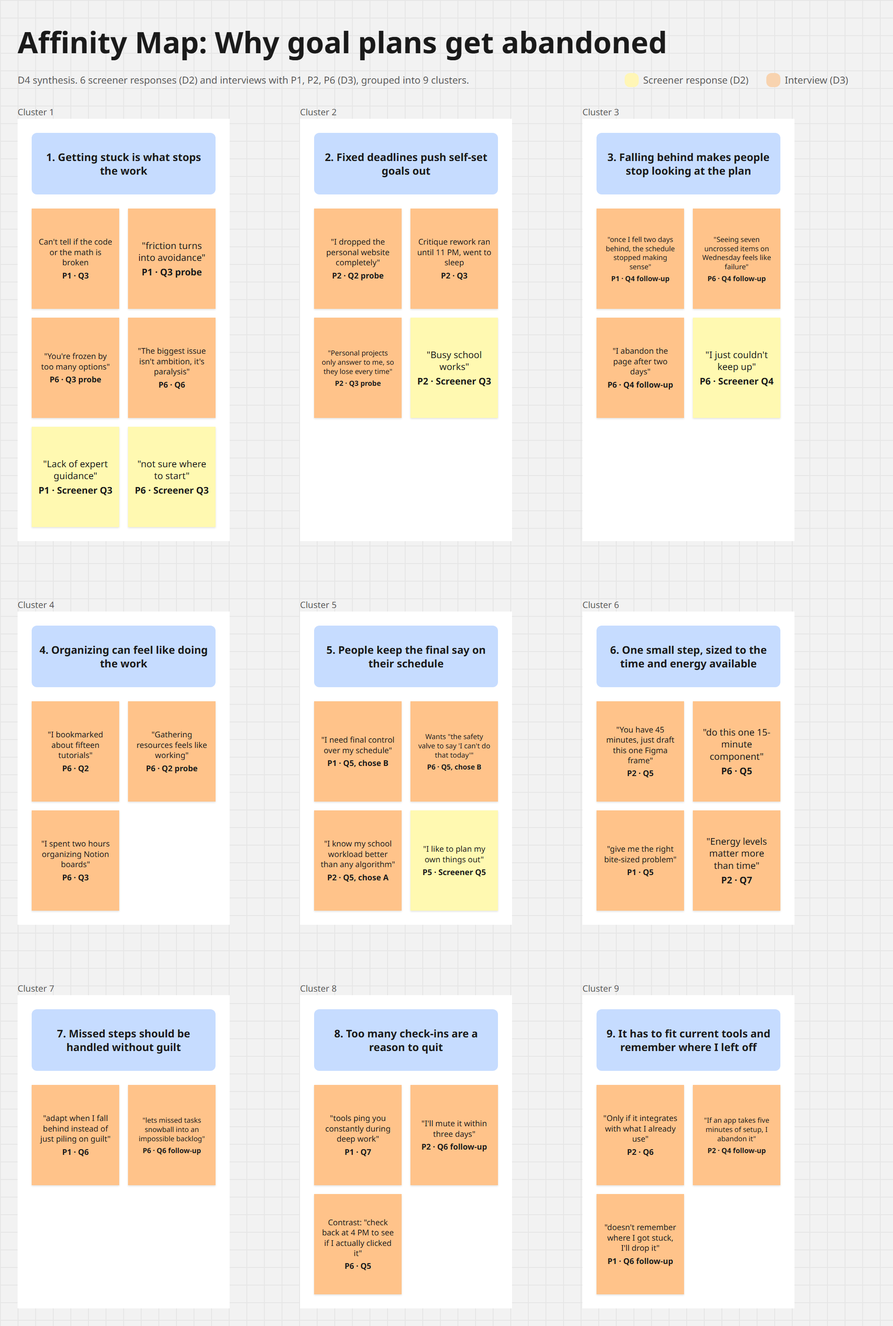
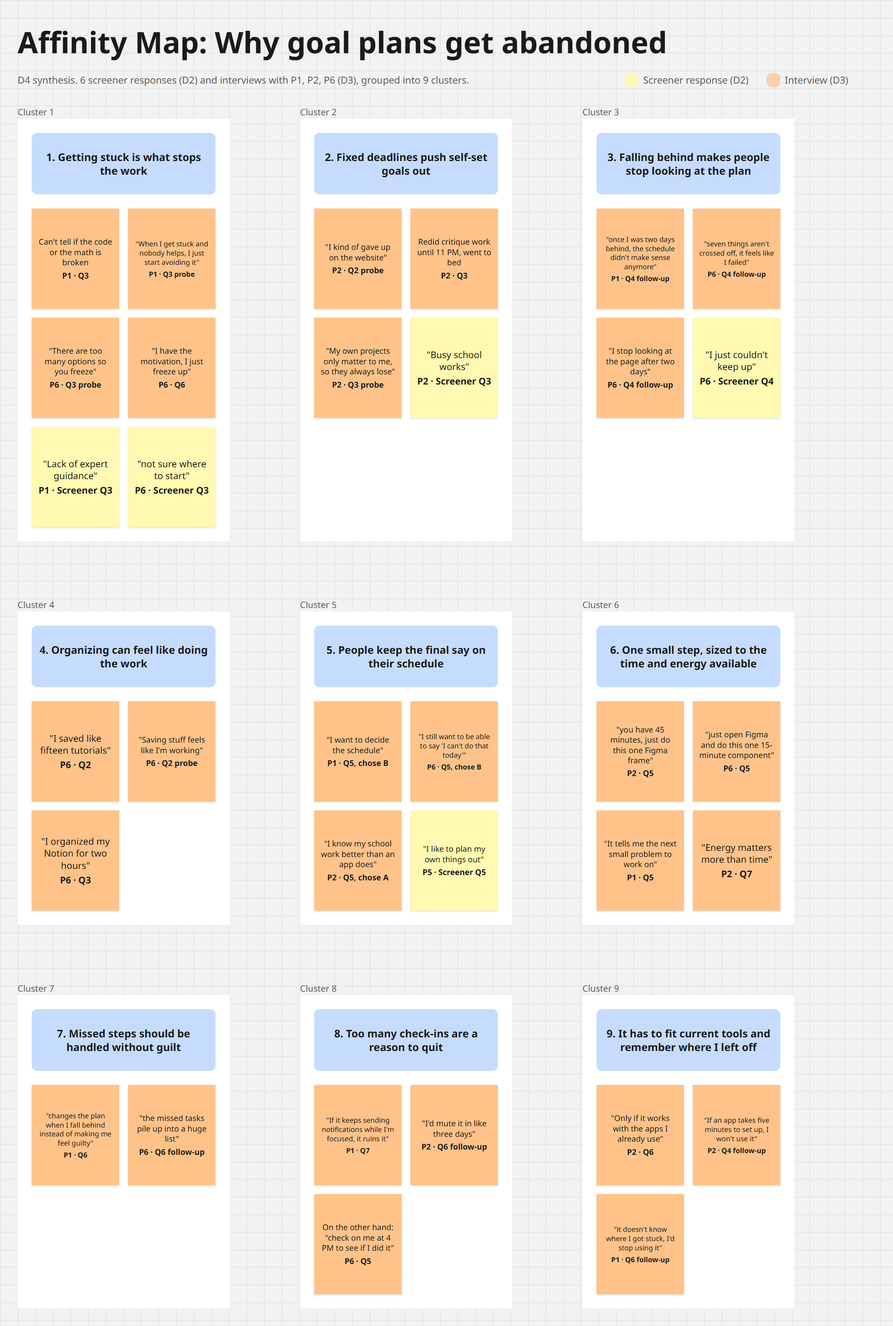
Plain wording for interview notes, highlights, P2 finding
Rewrites the D3 interview notes in plainer student wording with the
same content, labels them as notes rather than word-for-word quotes,
highlights the parts used in D4, matches D4 quotes and both maps to the
new wording, and adds a D4 note on P2 picking A while describing B.

diff --git a/index.html b/index.html
@@ -94,6 +94,7 @@
 
   .qa{ margin:18px 0; }
   .qa .q{ font-family:'IBM Plex Mono',monospace; font-size:12.5px; color:var(--ink-faint); margin-bottom:5px; max-width:72ch; }
+  .qa mark{ background:var(--accent-tint); color:inherit; padding:0 2px; }
   .qa .a{ font-family:'Newsreader',serif; font-size:16px; color:var(--ink); margin:0 0 4px; max-width:68ch; }
 
   /* ---- persona blocks (flat, no card chrome) ---- */
@@ -359,7 +360,7 @@
             </tbody>
           </table>
         </div>
-        <p class="measure">P1 and P2 said yes to a follow-up in the screener. P6 said no at first, but I needed one more interview, so I asked P6 again in October and they agreed. All three were okay with me taking notes. The answers below are my notes from the interviews, lightly cleaned up.</p>
+        <p class="measure">P1 and P2 said yes to a follow-up in the screener. P6 said no at first, but I needed one more interview, so I asked P6 again in October and they agreed. All three were okay with me taking notes. The answers below are from my notes. I wrote them down close to what each person said, but they aren't word for word.</p>
 
         <h3 id="guide">Interview guide</h3>
         <p class="measure">Text in [brackets] comes from that person's screener answers. I asked follow-ups one at a time, after they answered the main question. I only asked probes if the answer didn't already cover them. Before Q5, I described the tool the same way the screener did: "a tool that breaks a big goal into small steps and checks in with you."</p>
@@ -375,60 +376,60 @@
         <p class="measure">Q5 and Q6 ask about a tool that doesn't exist yet. So I count those answers as weaker evidence than Q2 to Q4, which are about what people actually did.</p>
 
         <h3 id="interviews">Full interviews</h3>
-        <p class="measure">Each question is written the way I asked it, with the brackets filled in from that person's screener. I only listed the probes and follow-ups I actually asked. My own notes are separate, at the end of each interview.</p>
+        <p class="measure">Each question is written the way I asked it, with the brackets filled in from that person's screener. I only listed the probes and follow-ups I actually asked. My own notes are separate, at the end of each interview. Highlighted parts are the ones I used in the synthesis (D4).</p>
 
         <h3 id="p1">P1</h3>
         <p class="resp-cap">Oct 17, 2026 · in person · 30 min · consented to notes</p>
-        <div class="qa"><p class="q">Q1 · In the screener, you described a goal: learning a skill. Can you tell me about it?</p><p class="a">"I’ve been trying to learn shader programming for WebGL. It’s a mix of math and front-end design that I’ve wanted to grasp for portfolio work."</p></div>
-        <div class="qa"><p class="q">Q1 probe · Why did you choose that goal?</p><p class="a">"It’s hard to stand out just doing standard UI. Real-time graphics feel like the next frontier for interactive web experiences."</p></div>
-        <div class="qa"><p class="q">Q2 · What, if anything, have you done toward that goal since you filled out the screener?</p><p class="a">"I worked through two tutorials on fragment shaders and took some notes in Obsidian."</p></div>
-        <div class="qa"><p class="q">Q2 probe · How, if at all, has that changed over time?</p><p class="a">"I started strong with basic shapes, but as soon as the vector math got into 3D lighting models, my pace dropped off sharply."</p></div>
-        <div class="qa"><p class="q">Q3 · You said a lack of expert guidance to follow, and willpower, made it hard to follow through. Can you tell me about a time that happened?</p><p class="a">"Last Tuesday I hit a math bug where the canvas stayed blank. When you're self-taught, you don't know if your code syntax is wrong or your linear algebra logic is broken. Staring at it for two hours just completely drained my motivation to open it the next day."</p></div>
-        <div class="qa"><p class="q">Q3 probe · Why do you think that happens?</p><p class="a">"When the feedback loop breaks and there's no mentor to say ‘you’re almost there, check line 12,’ friction turns into avoidance."</p></div>
-        <div class="qa"><p class="q">Q4 · You mentioned using ChatGPT to plan in detail how to execute on a day-to-day basis. How did you use it?</p><p class="a">"I asked it to break down a 4-week curriculum from beginner GLSL to lighting models, giving me one prompt or exercise per day."</p></div>
-        <div class="qa"><p class="q">Q4 follow-up · Are you still using it?</p><p class="a">"On and off. Mostly just when I need to ask conceptual questions."</p></div>
-        <div class="qa"><p class="q">Q4 follow-up · Why or why not?</p><p class="a">"The daily plan it made was too rigid. Real life happens, and once I fell two days behind, the schedule stopped making sense."</p></div>
-        <div class="qa"><p class="q">Q5 · How, if at all, would you want a tool like this to work for you?</p><p class="a">"I’d want it to behave like a tech lead, someone who can scope the milestone, give me the right bite-sized problem, and debug my conceptual block without taking over the driving."</p></div>
-        <div class="qa"><p class="q">Q5 follow-up · Which of A, B, C, or D, if any, is closest to what you would want? Why?</p><p class="a">"B. I want its domain knowledge to lay out the path, but I need final control over my schedule based on my actual mental energy that day."</p></div>
-        <div class="qa"><p class="q">Q6 · Do you think you would use a tool like this? Why or why not?</p><p class="a">"Yes, if the suggestions are actually technically sound and adapt when I fall behind instead of just piling on guilt."</p></div>
-        <div class="qa"><p class="q">Q6 follow-up · Do you think you would continue to use it? Why or why not?</p><p class="a">"Only if it provides continuous context. If it treats every day like day one and doesn't remember where I got stuck, I’ll drop it."</p></div>
-        <div class="qa"><p class="q">Q7 · Is there anything about working toward this goal that I didn't ask about and you think matters?</p><p class="a">"Pacing matters more than reminders. When tools ping you constantly during deep work, it actually ruins your flow."</p></div>
+        <div class="qa"><p class="q">Q1 · In the screener, you described a goal: learning a skill. Can you tell me about it?</p><p class="a">"I've been trying to learn shader programming for WebGL. It's kind of a mix of math and front-end stuff, and I wanted to get it for my portfolio."</p></div>
+        <div class="qa"><p class="q">Q1 probe · Why did you choose that goal?</p><p class="a">"Honestly it's hard to stand out if you only do normal UI. Real-time graphics on websites seemed like the next big thing, so I wanted to learn it."</p></div>
+        <div class="qa"><p class="q">Q2 · What, if anything, have you done toward that goal since you filled out the screener?</p><p class="a">"I did two tutorials on fragment shaders and took some notes in Obsidian."</p></div>
+        <div class="qa"><p class="q">Q2 probe · How, if at all, has that changed over time?</p><p class="a">"The beginning was fine, I made basic shapes. But <mark>once the vector math got into 3D lighting, I got really slow</mark>."</p></div>
+        <div class="qa"><p class="q">Q3 · You said a lack of expert guidance to follow, and willpower, made it hard to follow through. Can you tell me about a time that happened?</p><p class="a">"Last Tuesday I had a bug and the canvas just stayed blank. When you're teaching yourself, <mark>you can't tell if it's the code or if your math is wrong</mark>. I stared at it for like two hours, and the next day I didn't even want to open it."</p></div>
+        <div class="qa"><p class="q">Q3 probe · Why do you think that happens?</p><p class="a">"Because there's nobody to tell you 'you're close, check line 12.' <mark>When I get stuck and nobody helps, I just start avoiding it.</mark>"</p></div>
+        <div class="qa"><p class="q">Q4 · You mentioned using ChatGPT to plan in detail how to execute on a day-to-day basis. How did you use it?</p><p class="a">"I asked it to make a 4-week plan from beginner GLSL to lighting, with one exercise every day."</p></div>
+        <div class="qa"><p class="q">Q4 follow-up · Are you still using it?</p><p class="a">"Kind of. Now I mostly use it when I have a concept question."</p></div>
+        <div class="qa"><p class="q">Q4 follow-up · Why or why not?</p><p class="a">"The plan was too strict. Stuff comes up, and <mark>once I was two days behind, the schedule didn't make sense anymore</mark>."</p></div>
+        <div class="qa"><p class="q">Q5 · How, if at all, would you want a tool like this to work for you?</p><p class="a">"I'd want it to be like a senior who knows the stuff. <mark>It tells me the next small problem to work on and helps when I'm stuck</mark>, but I'm still the one doing it."</p></div>
+        <div class="qa"><p class="q">Q5 follow-up · Which of A, B, C, or D, if any, is closest to what you would want? Why?</p><p class="a">"B. I want it to plan the path since it knows more than me, but <mark>I want to decide the schedule, because some days I just don't have the energy</mark>."</p></div>
+        <div class="qa"><p class="q">Q6 · Do you think you would use a tool like this? Why or why not?</p><p class="a">"Yeah, if the suggestions actually make sense, and if it <mark>changes the plan when I fall behind instead of making me feel guilty</mark>."</p></div>
+        <div class="qa"><p class="q">Q6 follow-up · Do you think you would continue to use it? Why or why not?</p><p class="a">"Only if it remembers where I was. <mark>If every day feels like starting over and it doesn't know where I got stuck, I'd stop using it.</mark>"</p></div>
+        <div class="qa"><p class="q">Q7 · Is there anything about working toward this goal that I didn't ask about and you think matters?</p><p class="a">"How fast you go matters more than reminders. <mark>If it keeps sending notifications while I'm focused, it ruins it.</mark>"</p></div>
         <p class="measure"><strong>My notes after the interview (my take, not P1's words).</strong> What surprised me: P1 had plenty of drive. Their motivation dropped once they got stuck on the math and had no one to ask. Compared with the screener: This matches what P1 wrote. ChatGPT was good for planning out a syllabus, but it couldn't help when something broke. Follow-up I should have asked: "When ChatGPT generated your daily schedule, what did you do on the very first day you missed a task?"</p>
 
         <h3 id="p2">P2</h3>
         <p class="resp-cap">Oct 16, 2026 · in person · 30 min · consented to notes</p>
-        <div class="qa"><p class="q">Q1 · In the screener, you described a goal: working on various projects. Can you tell me about it?</p><p class="a">"I have a few studio class deliverables, a team case competition slide deck, and a personal branding site I want to clean up."</p></div>
-        <div class="qa"><p class="q">Q1 probe · Why did you choose that goal?</p><p class="a">"It’s mid-semester crunch time, and if I don’t juggle these right now, my grades slip and portfolio deadlines pass."</p></div>
-        <div class="qa"><p class="q">Q2 · What, if anything, have you done toward that goal since you filled out the screener?</p><p class="a">"Finished the wireframes for studio and drafted three slides for the competition."</p></div>
-        <div class="qa"><p class="q">Q2 probe · How, if at all, has that changed over time?</p><p class="a">"I dropped the personal website completely. Studio and team stuff have fixed deadlines, so solo work got shoved aside."</p></div>
-        <div class="qa"><p class="q">Q3 · You said being busy with schoolwork made it hard to follow through. Can you tell me about a time that happened?</p><p class="a">"Last Thursday I planned to spend two hours on my site. But our team had an emergency critique rework that went until 11 PM. I was burnt out and just went straight to sleep."</p></div>
-        <div class="qa"><p class="q">Q3 probe · Why do you think that happens?</p><p class="a">"Academic deadlines have real consequences with professors. Personal projects only answer to me, so they lose every time."</p></div>
-        <div class="qa"><p class="q">Q4 · You mentioned you had used an app, planner, or AI tool, and it worked efficiently. Which tool was it, and how did you use it?</p><p class="a">"I used Todoist paired with Google Calendar. Just rapid dumping of tasks into 30-minute calendar blocks."</p></div>
-        <div class="qa"><p class="q">Q4 follow-up · Are you still using it?</p><p class="a">"Yes, daily."</p></div>
-        <div class="qa"><p class="q">Q4 follow-up · Why or why not?</p><p class="a">"It works because it takes two seconds to add a task. If an app takes five minutes of setup, I abandon it."</p></div>
-        <div class="qa"><p class="q">Q5 · How, if at all, would you want a tool like this to work for you?</p><p class="a">"Look at my calendar, see the blank pockets between lectures, and suggest: ‘You have 45 minutes, just draft this one Figma frame.’"</p></div>
-        <div class="qa"><p class="q">Q5 follow-up · Which of A, B, C, or D, if any, is closest to what you would want? Why?</p><p class="a">"A. I know my school workload better than any algorithm. I don't want an AI telling me how to organize my day; I just need it to remind me of the small step when I have a spare hour."</p></div>
-        <div class="qa"><p class="q">Q6 · Do you think you would use a tool like this? Why or why not?</p><p class="a">"Only if it integrates with what I already use. If it’s a brand-new app I have to open and manage, honestly no."</p></div>
-        <div class="qa"><p class="q">Q6 follow-up · Do you think you would continue to use it? Why or why not?</p><p class="a">"If it reduces cognitive load, yes. If it sends push notifications when I’m already stressed in class, I’ll mute it within three days."</p></div>
-        <div class="qa"><p class="q">Q7 · Is there anything about working toward this goal that I didn't ask about and you think matters?</p><p class="a">"Energy levels matter more than time. A free 30-minute window at 9 PM isn't the same as 30 minutes at 11 AM."</p></div>
+        <div class="qa"><p class="q">Q1 · In the screener, you described a goal: working on various projects. Can you tell me about it?</p><p class="a">"I have a couple studio projects, a slide deck for a team case competition, and my personal website that I want to clean up."</p></div>
+        <div class="qa"><p class="q">Q1 probe · Why did you choose that goal?</p><p class="a">"It's the middle of the semester, so if I don't keep up with all of them, my grades drop and I miss portfolio deadlines."</p></div>
+        <div class="qa"><p class="q">Q2 · What, if anything, have you done toward that goal since you filled out the screener?</p><p class="a">"I finished my studio wireframes and made three slides for the competition."</p></div>
+        <div class="qa"><p class="q">Q2 probe · How, if at all, has that changed over time?</p><p class="a">"<mark>I kind of gave up on the website.</mark> Studio and the team project have real deadlines, so my own stuff got pushed back."</p></div>
+        <div class="qa"><p class="q">Q3 · You said being busy with schoolwork made it hard to follow through. Can you tell me about a time that happened?</p><p class="a">"Last Thursday I planned two hours for my site. But my team had to redo stuff for a critique and <mark>we worked until 11 PM. I was so tired I just went to bed.</mark>"</p></div>
+        <div class="qa"><p class="q">Q3 probe · Why do you think that happens?</p><p class="a">"School deadlines actually matter because professors grade you. <mark>My own projects only matter to me, so they always lose.</mark>"</p></div>
+        <div class="qa"><p class="q">Q4 · You mentioned you had used an app, planner, or AI tool, and it worked efficiently. Which tool was it, and how did you use it?</p><p class="a">"Todoist with Google Calendar. I just throw tasks into 30-minute blocks really fast."</p></div>
+        <div class="qa"><p class="q">Q4 follow-up · Are you still using it?</p><p class="a">"<mark>Yeah, every day.</mark>"</p></div>
+        <div class="qa"><p class="q">Q4 follow-up · Why or why not?</p><p class="a">"Because adding a task takes like two seconds. <mark>If an app takes five minutes to set up, I won't use it.</mark>"</p></div>
+        <div class="qa"><p class="q">Q5 · How, if at all, would you want a tool like this to work for you?</p><p class="a">"It could <mark>look at my calendar, find the free time between classes</mark>, and say something like 'you have 45 minutes, just do this one Figma frame.'"</p></div>
+        <div class="qa"><p class="q">Q5 follow-up · Which of A, B, C, or D, if any, is closest to what you would want? Why?</p><p class="a">"A. I know my school work better than an app does. <mark>I don't want AI planning my day.</mark> I just want a reminder of the small thing when I have a free hour."</p></div>
+        <div class="qa"><p class="q">Q6 · Do you think you would use a tool like this? Why or why not?</p><p class="a">"<mark>Only if it works with the apps I already use.</mark> If it's a new app I have to open and keep up with, probably not."</p></div>
+        <div class="qa"><p class="q">Q6 follow-up · Do you think you would continue to use it? Why or why not?</p><p class="a">"If it makes things easier to think about, yes. But if it sends notifications when I'm already stressed in class, <mark>I'd mute it in like three days</mark>."</p></div>
+        <div class="qa"><p class="q">Q7 · Is there anything about working toward this goal that I didn't ask about and you think matters?</p><p class="a">"<mark>Energy matters more than time.</mark> 30 free minutes at 9 PM is not the same as 30 minutes at 11 AM."</p></div>
         <p class="measure"><strong>My notes after the interview (my take, not P2's words).</strong> What surprised me: P2 really wants to stay in control. They don't want complicated features or an AI planning their day. Compared with the screener: This matches "busy school works," since school deadlines push out personal projects. The tool they called "efficient" turned out to be simple time blocking. Follow-up I should have asked: "What is the trigger that actually makes you check off a task on a busy day?"</p>
 
         <h3 id="p6">P6</h3>
         <p class="resp-cap">Oct 16, 2026 · in person · 30 min · consented to notes</p>
-        <div class="qa"><p class="q">Q1 · In the screener, you described a few goals: learning new UX tools for your design process, time management, job searching, and using AI tools to keep up with the trend. Can you tell me about them?</p><p class="a">"I’m trying to transition into product design, so I feel like I have to learn Figma advanced variables, test new generative UI tools, update my resume, and network on LinkedIn all at once."</p></div>
-        <div class="qa"><p class="q">Q1 probe · Why did you choose those goals?</p><p class="a">"The job market is brutal right now. Every job listing wants someone who does everything, and I feel like I’m falling behind."</p></div>
-        <div class="qa"><p class="q">Q2 · What, if anything, have you done toward those goals since you filled out the screener?</p><p class="a">"I bookmarked about fifteen tutorials and made a massive Notion board of jobs to apply for."</p></div>
-        <div class="qa"><p class="q">Q2 probe · How, if at all, has that changed over time?</p><p class="a">"I haven't actually applied or finished a tutorial. Gathering resources feels like working, but then looking at the list makes me freeze up."</p></div>
-        <div class="qa"><p class="q">Q3 · You said nobody keeping you accountable, motivation, keeping track, and not being sure where to start made it hard to follow through. Can you tell me about a time that happened?</p><p class="a">"Last Sunday, I sat down at 10 AM to work on a case study. I spent two hours organizing Notion boards, then an hour debating whether to learn Framer or Figma first, got overwhelmed, and ended up just scrolling social media."</p></div>
-        <div class="qa"><p class="q">Q3 probe · Why do you think that happens?</p><p class="a">"When you have four huge goals with no manager or teacher checking your work, you don't know what priority one is. You're frozen by too many options."</p></div>
-        <div class="qa"><p class="q">Q4 · You mentioned using the Apple Notes app and a physical planner, but you couldn't keep up. How did you use them?</p><p class="a">"I’d write down ambitious 10-item to-do lists in my notebook every Monday, or dump links into Notes."</p></div>
-        <div class="qa"><p class="q">Q4 follow-up · Are you still using them?</p><p class="a">"Not consistently. I abandon the page after two days."</p></div>
-        <div class="qa"><p class="q">Q4 follow-up · Why or why not?</p><p class="a">"Seeing seven uncrossed items on Wednesday feels like failure, so I just avoid looking at the planner completely."</p></div>
-        <div class="qa"><p class="q">Q5 · How, if at all, would you want a tool like this to work for you?</p><p class="a">"I want it to tell me: ‘Don’t worry about the other ten things today. Just open Figma and do this one 15-minute component.’ And then check back at 4 PM to see if I actually clicked it."</p></div>
-        <div class="qa"><p class="q">Q5 follow-up · Which of A, B, C, or D, if any, is closest to what you would want? Why?</p><p class="a">"B. I need someone or something else to make the first move and trim down the scope, but I still want the safety valve to say ‘I can't do that today.’"</p></div>
-        <div class="qa"><p class="q">Q6 · Do you think you would use a tool like this? Why or why not?</p><p class="a">"Yes, desperately. The biggest issue isn't ambition, it's paralysis."</p></div>
-        <div class="qa"><p class="q">Q6 follow-up · Do you think you would continue to use it? Why or why not?</p><p class="a">"Only if it handles failure gently. If it guilts me or lets missed tasks snowball into an impossible backlog, I’ll shut down like I did with my planner."</p></div>
-        <div class="qa"><p class="q">Q7 · Is there anything about working toward these goals that I didn't ask about and you think matters?</p><p class="a">"The emotional side of starting. When you're job hunting, every task feels heavy. Lowering that activation energy is everything."</p></div>
+        <div class="qa"><p class="q">Q1 · In the screener, you described a few goals: learning new UX tools for your design process, time management, job searching, and using AI tools to keep up with the trend. Can you tell me about them?</p><p class="a">"I'm trying to get into product design, so I feel like I need to learn Figma variables, try the new AI UI tools, fix my resume, and network on LinkedIn, <mark>all at the same time</mark>."</p></div>
+        <div class="qa"><p class="q">Q1 probe · Why did you choose those goals?</p><p class="a">"The job market is really bad right now. Every job post wants someone who can do everything, and I feel behind."</p></div>
+        <div class="qa"><p class="q">Q2 · What, if anything, have you done toward those goals since you filled out the screener?</p><p class="a">"I saved like fifteen tutorials and made a huge Notion board of jobs to apply to."</p></div>
+        <div class="qa"><p class="q">Q2 probe · How, if at all, has that changed over time?</p><p class="a">"I haven't actually applied anywhere or finished a tutorial. <mark>Saving stuff feels like I'm working</mark>, but then I look at the list and I just freeze."</p></div>
+        <div class="qa"><p class="q">Q3 · You said nobody keeping you accountable, motivation, keeping track, and not being sure where to start made it hard to follow through. Can you tell me about a time that happened?</p><p class="a">"Last Sunday I sat down at 10 AM to work on a case study. <mark>I organized my Notion for two hours</mark>, then spent an hour deciding if I should learn Framer or Figma first. I got overwhelmed and ended up on social media."</p></div>
+        <div class="qa"><p class="q">Q3 probe · Why do you think that happens?</p><p class="a">"When you have four big goals and no boss or teacher checking, <mark>you don't know what to do first</mark>. There are too many options so you freeze."</p></div>
+        <div class="qa"><p class="q">Q4 · You mentioned using the Apple Notes app and a physical planner, but you couldn't keep up. How did you use them?</p><p class="a">"Every Monday I'd write a big 10-item to-do list in my notebook, or just dump links into Notes."</p></div>
+        <div class="qa"><p class="q">Q4 follow-up · Are you still using them?</p><p class="a">"Not really. <mark>I stop looking at the page after two days.</mark>"</p></div>
+        <div class="qa"><p class="q">Q4 follow-up · Why or why not?</p><p class="a">"When it's Wednesday and seven things aren't crossed off, <mark>it feels like I failed, so I just stop looking at the planner</mark>."</p></div>
+        <div class="qa"><p class="q">Q5 · How, if at all, would you want a tool like this to work for you?</p><p class="a">"I want it to tell me, 'Don't worry about the other ten things today, <mark>just open Figma and do this one 15-minute component</mark>.' And then check on me at 4 PM to see if I did it."</p></div>
+        <div class="qa"><p class="q">Q5 follow-up · Which of A, B, C, or D, if any, is closest to what you would want? Why?</p><p class="a">"B. I need something to make the first move and cut it down for me, but <mark>I still want to be able to say 'I can't do that today.'</mark>"</p></div>
+        <div class="qa"><p class="q">Q6 · Do you think you would use a tool like this? Why or why not?</p><p class="a">"Yes, definitely. <mark>I have the motivation, I just freeze up.</mark>"</p></div>
+        <div class="qa"><p class="q">Q6 follow-up · Do you think you would continue to use it? Why or why not?</p><p class="a">"Only if it's chill when I miss things. <mark>If it makes me feel guilty or the missed tasks pile up into a huge list, I'll quit it</mark> like I did with my planner."</p></div>
+        <div class="qa"><p class="q">Q7 · Is there anything about working toward these goals that I didn't ask about and you think matters?</p><p class="a">"Starting is the hard part, emotionally. When you're job hunting every task feels heavy, so making it easier to start is huge."</p></div>
         <p class="measure"><strong>My notes after the interview (my take, not P6's words).</strong> What surprised me: Organizing was basically a way for P6 to put off the real work, because actually making something felt harder. Compared with the screener: This matches "not strategic enough" and the accountability problem. The planner stopped working because the lists kept getting too big. Follow-up I should have asked: "Would an AI check-in feel like real accountability to you, or does accountability have to come from another human?"</p>
 
         <h3 id="guide-changes">What changed from the first guide</h3>
@@ -467,7 +468,7 @@
         <p class="measure">I grouped the interview answers by what they were about. Each row is one group with the answers in it. Screener answers are marked "Screener."</p>
 
         <figure class="shot">
-          <img src="affinity-map.png?v=voice1" width="2030" height="3014" alt="Affinity map from the Miro board: screener answers (yellow) and interview quotes from P1, P2, and P6 (orange) sorted into nine clusters. Each sticky shows the quote and the participant and question it came from.">
+          <img src="affinity-map.png?v=plain1" width="2030" height="3014" alt="Affinity map from the Miro board: screener answers (yellow) and interview quotes from P1, P2, and P6 (orange) sorted into nine clusters. Each sticky shows the quote and the participant and question it came from.">
           <figcaption class="hero-cap">Here are the same nine groups on the Miro board. Yellow notes are screener answers and orange notes are interview answers. Each note has its participant and question number. The table below has the same quotes as text.</figcaption>
         </figure>
         <div class="wrap-table">
@@ -476,15 +477,15 @@
               <tr><th>Cluster</th><th>Answers in it</th></tr>
             </thead>
             <tbody>
-              <tr><td>Getting stuck is what stops the work</td><td>P1, Q3: "you don't know if your code syntax is wrong or your linear algebra logic is broken… drained my motivation to open it the next day."<br>P1, Q3 probe: "friction turns into avoidance."<br>P6, Q3 probe: "You're frozen by too many options."<br>P6, Q6: "The biggest issue isn't ambition, it's paralysis."<br>Screener Q3: P1 "Lack of expert guidance," P6 "not sure where to start."</td></tr>
-              <tr><td>Fixed deadlines push self-set goals out</td><td>P2, Q2 probe: "I dropped the personal website completely… solo work got shoved aside."<br>P2, Q3: a team critique rework "went until 11 PM… just went straight to sleep."<br>P2, Q3 probe: "Personal projects only answer to me, so they lose every time."<br>Screener Q3: P2 "Busy school works."</td></tr>
-              <tr><td>Falling behind makes people stop looking at the plan</td><td>P1, Q4 follow-up: "once I fell two days behind, the schedule stopped making sense."<br>P6, Q4 follow-up: "Seeing seven uncrossed items on Wednesday feels like failure, so I just avoid looking at the planner completely."<br>P6, Q4 follow-up: "I abandon the page after two days."</td></tr>
-              <tr><td>Organizing can feel like doing the work</td><td>P6, Q2: "I bookmarked about fifteen tutorials and made a massive Notion board."<br>P6, Q2 probe: "Gathering resources feels like working."<br>P6, Q3: "two hours organizing Notion boards, then an hour debating whether to learn Framer or Figma first."</td></tr>
-              <tr><td>People want to keep the final say on their schedule</td><td>P1, Q5 (B): "I need final control over my schedule based on my actual mental energy that day."<br>P6, Q5 (B): "I still want the safety valve to say 'I can't do that today.'"<br>P2, Q5 (A): "I know my school workload better than any algorithm."<br>Screener Q5: P5 "I like to plan my own things out."</td></tr>
-              <tr><td>One small step, sized to the time and energy available</td><td>P2, Q5: "You have 45 minutes, just draft this one Figma frame."<br>P6, Q5: "Just open Figma and do this one 15-minute component."<br>P1, Q5: "give me the right bite-sized problem."<br>P2, Q7: "Energy levels matter more than time."</td></tr>
-              <tr><td>Missed steps should be handled without guilt</td><td>P1, Q6: "adapt when I fall behind instead of just piling on guilt."<br>P6, Q6 follow-up: "If it guilts me or lets missed tasks snowball into an impossible backlog, I’ll shut down."</td></tr>
-              <tr><td>Too many check-ins are a reason to quit</td><td>P1, Q7: "When tools ping you constantly during deep work, it actually ruins your flow."<br>P2, Q6 follow-up: "If it sends push notifications when I’m already stressed in class, I’ll mute it within three days."<br>Contrast: P6, Q5 wants it to "check back at 4 PM to see if I actually clicked it."</td></tr>
-              <tr><td>It has to fit what people already use and remember where they left off</td><td>P2, Q6: "Only if it integrates with what I already use."<br>P2, Q4 follow-up: "If an app takes five minutes of setup, I abandon it."<br>P1, Q6 follow-up: "If it treats every day like day one and doesn't remember where I got stuck, I’ll drop it."</td></tr>
+              <tr><td>Getting stuck is what stops the work</td><td>P1, Q3: "you can't tell if it's the code or if your math is wrong… the next day I didn't even want to open it."<br>P1, Q3 probe: "When I get stuck and nobody helps, I just start avoiding it."<br>P6, Q3 probe: "There are too many options so you freeze."<br>P6, Q6: "I have the motivation, I just freeze up."<br>Screener Q3: P1 "Lack of expert guidance," P6 "not sure where to start."</td></tr>
+              <tr><td>Fixed deadlines push self-set goals out</td><td>P2, Q2 probe: "I kind of gave up on the website… my own stuff got pushed back."<br>P2, Q3: redoing work for a team critique, "we worked until 11 PM. I was so tired I just went to bed."<br>P2, Q3 probe: "My own projects only matter to me, so they always lose."<br>Screener Q3: P2 "Busy school works."</td></tr>
+              <tr><td>Falling behind makes people stop looking at the plan</td><td>P1, Q4 follow-up: "once I was two days behind, the schedule didn't make sense anymore."<br>P6, Q4 follow-up: "When it's Wednesday and seven things aren't crossed off, it feels like I failed, so I just stop looking at the planner."<br>P6, Q4 follow-up: "I stop looking at the page after two days."</td></tr>
+              <tr><td>Organizing can feel like doing the work</td><td>P6, Q2: "I saved like fifteen tutorials and made a huge Notion board."<br>P6, Q2 probe: "Saving stuff feels like I'm working."<br>P6, Q3: "I organized my Notion for two hours, then spent an hour deciding if I should learn Framer or Figma first."</td></tr>
+              <tr><td>People want to keep the final say on their schedule</td><td>P1, Q5 (B): "I want to decide the schedule, because some days I just don't have the energy."<br>P6, Q5 (B): "I still want to be able to say 'I can't do that today.'"<br>P2, Q5 (A): "I know my school work better than an app does."<br>Screener Q5: P5 "I like to plan my own things out."</td></tr>
+              <tr><td>One small step, sized to the time and energy available</td><td>P2, Q5: "you have 45 minutes, just do this one Figma frame."<br>P6, Q5: "just open Figma and do this one 15-minute component."<br>P1, Q5: "It tells me the next small problem to work on."<br>P2, Q7: "Energy matters more than time."</td></tr>
+              <tr><td>Missed steps should be handled without guilt</td><td>P1, Q6: "changes the plan when I fall behind instead of making me feel guilty."<br>P6, Q6 follow-up: "If it makes me feel guilty or the missed tasks pile up into a huge list, I'll quit it."</td></tr>
+              <tr><td>Too many check-ins are a reason to quit</td><td>P1, Q7: "If it keeps sending notifications while I'm focused, it ruins it."<br>P2, Q6 follow-up: "if it sends notifications when I'm already stressed in class, I'd mute it in like three days."<br>On the other hand, P6, Q5 wants it to "check on me at 4 PM to see if I did it."</td></tr>
+              <tr><td>It has to fit what people already use and remember where they left off</td><td>P2, Q6: "Only if it works with the apps I already use."<br>P2, Q4 follow-up: "If an app takes five minutes to set up, I won't use it."<br>P1, Q6 follow-up: "If every day feels like starting over and it doesn't know where I got stuck, I'd stop using it."</td></tr>
             </tbody>
           </table>
         </div>
@@ -493,7 +494,7 @@
         <p class="measure">These stages come from all three interviews, but not everyone talked about every stage. Each cell says who said it.</p>
 
         <figure class="shot">
-          <img src="journey-map.png?v=voice1" width="2890" height="1750" alt="Journey map from the Miro board: P1, P2, and P6 across six stages (set the goal, make a plan, start, hit a problem, fall behind, drop it), with a bottom row for where a tool could help. The fall-behind column is highlighted red.">
+          <img src="journey-map.png?v=plain1" width="2890" height="1750" alt="Journey map from the Miro board: P1, P2, and P6 across six stages (set the goal, make a plan, start, hit a problem, fall behind, drop it), with a bottom row for where a tool could help. The fall-behind column is highlighted red.">
           <figcaption class="hero-cap">I highlighted "Fall behind" because that's where every participant's plan stopped working. The table below has the same content as text.</figcaption>
         </figure>
         <div class="wrap-table">
@@ -502,18 +503,19 @@
               <tr><th>Stage</th><th>What happened</th><th>Where a tool could help</th></tr>
             </thead>
             <tbody>
-              <tr><td>Set the goal</td><td>Goals were broad or several at once: P6 lists four "all at once" (Q1); P2 juggles three projects (Q1).</td><td>Help pick what comes first (P6, Q3 probe: "you don't know what priority one is").</td></tr>
+              <tr><td>Set the goal</td><td>Goals were broad or several at once: P6 wants four things "all at the same time" (Q1); P2 juggles three projects (Q1).</td><td>Help pick what comes first (P6, Q3 probe: "you don't know what to do first").</td></tr>
               <tr><td>Make a plan</td><td>P1 had ChatGPT make a 4-week, one-exercise-per-day plan (Q4). P6 wrote 10-item lists every Monday (Q4). P2 time-blocks in Todoist and Google Calendar (Q4).</td><td>Suggest steps the person can change (P1 and P6 chose B in Q5).</td></tr>
-              <tr><td>Start</td><td>P1 "started strong" (Q2 probe). P6 organized instead of starting (Q3).</td><td>Point to one small first step (P6, Q5; P2, Q5).</td></tr>
-              <tr><td>Hit a problem</td><td>P1 stuck on a blank canvas for two hours (Q3). P2's evening taken by a team critique rework (Q3).</td><td>For P1: help with the specific block (Q5: "debug my conceptual block"). For P2: move the step to the next free slot (Q5).</td></tr>
-              <tr><td>Fall behind</td><td>P1's schedule "stopped making sense" (Q4). P6 saw "seven uncrossed items on Wednesday" (Q4).</td><td>Re-plan after a miss instead of stacking up overdue tasks (P1, Q6; P6, Q6 follow-up).</td></tr>
-              <tr><td>Drop it</td><td>P1 uses ChatGPT only "on and off" (Q4). P6 avoids "looking at the planner completely" (Q4). P2 "dropped the personal website completely" (Q2 probe).</td><td>Make coming back easy, with the tool remembering where they stopped (P1, Q6 follow-up).</td></tr>
+              <tr><td>Start</td><td>P1's start "was fine" (Q2 probe). P6 organized instead of starting (Q3).</td><td>Point to one small first step (P6, Q5; P2, Q5).</td></tr>
+              <tr><td>Hit a problem</td><td>P1 stuck on a blank canvas for two hours (Q3). P2's evening taken by a team critique rework (Q3).</td><td>For P1: help with the specific problem (Q5: "helps when I'm stuck"). For P2: move the step to the next free slot (Q5).</td></tr>
+              <tr><td>Fall behind</td><td>P1's schedule "didn't make sense anymore" (Q4). P6 had "seven things" not "crossed off" by Wednesday (Q4).</td><td>Re-plan after a miss instead of stacking up overdue tasks (P1, Q6; P6, Q6 follow-up).</td></tr>
+              <tr><td>Drop it</td><td>P1 uses ChatGPT only "kind of" now (Q4). P6 "just stop[s] looking at the planner" (Q4). P2 "kind of gave up on the website" (Q2 probe).</td><td>Make coming back easy, with the tool remembering where they stopped (P1, Q6 follow-up).</td></tr>
             </tbody>
           </table>
         </div>
 
         <h3>Where participants disagreed</h3>
-        <p class="measure"><strong>How much should the tool plan?</strong> P1 and P6 want it to suggest the steps (Q5, B). P1 wants "its domain knowledge to lay out the path," and P6 wants "something else to make the first move and trim down the scope." P2 only wants reminders (Q5, A): "I don't want an AI telling me how to organize my day." P2 is also the only one whose current tool still works every day (Q4 follow-up), so maybe a planning tool matters less for P2.</p>
+        <p class="measure"><strong>How much should the tool plan?</strong> P1 and P6 want it to suggest the steps (Q5, B). P1 wants it "to plan the path since it knows more than me," and P6 wants "something to make the first move and cut it down for me." P2 only wants reminders (Q5, A): "I don't want AI planning my day." P2 is also the only one whose current tool still works every day (Q4 follow-up), so maybe a planning tool matters less for P2.</p>
+        <p class="measure"><strong>P2's answers don't fully match.</strong> P2 picked A, where the tool only reminds you (Q5 follow-up). But when I asked openly how it should work, P2 said it could "look at my calendar, find the free time between classes" and suggest one small task (Q5). That's closer to B, because the tool is choosing when and what. So I think P2 doesn't mind suggestions, as long as they're small and fit into time P2 already has. P2 seems to push back on the word "planning" more than on the tool actually helping. I didn't catch this during the interview, so it's something to ask about in usability testing (D7).</p>
         <p class="measure"><strong>Check-ins.</strong> P6 asked for a check-in (Q5). However, P1 and P2 both said constant notifications would make them stop (Q7; Q6 follow-up). Maybe one check-in at a time the person picks could work for both, but I didn't test that.</p>
 
         <h3>Limits</h3>
